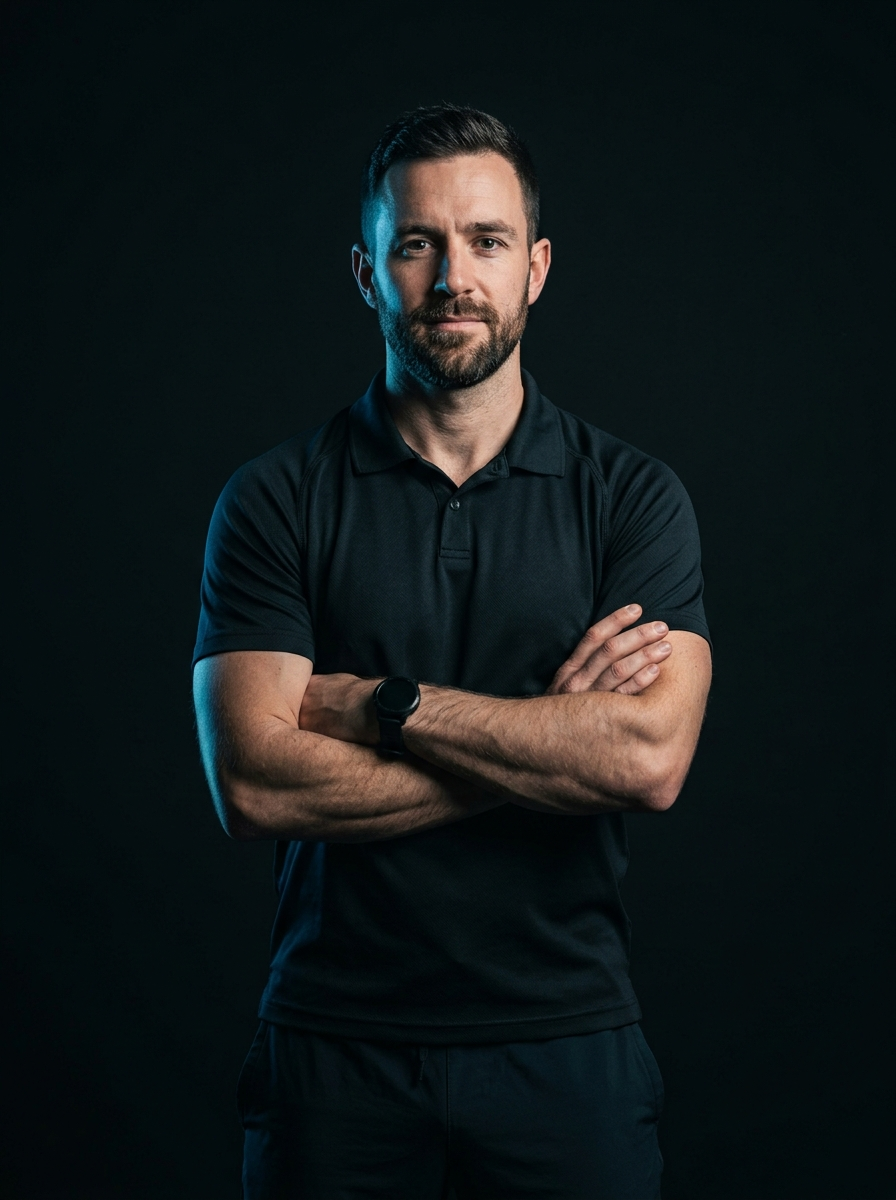
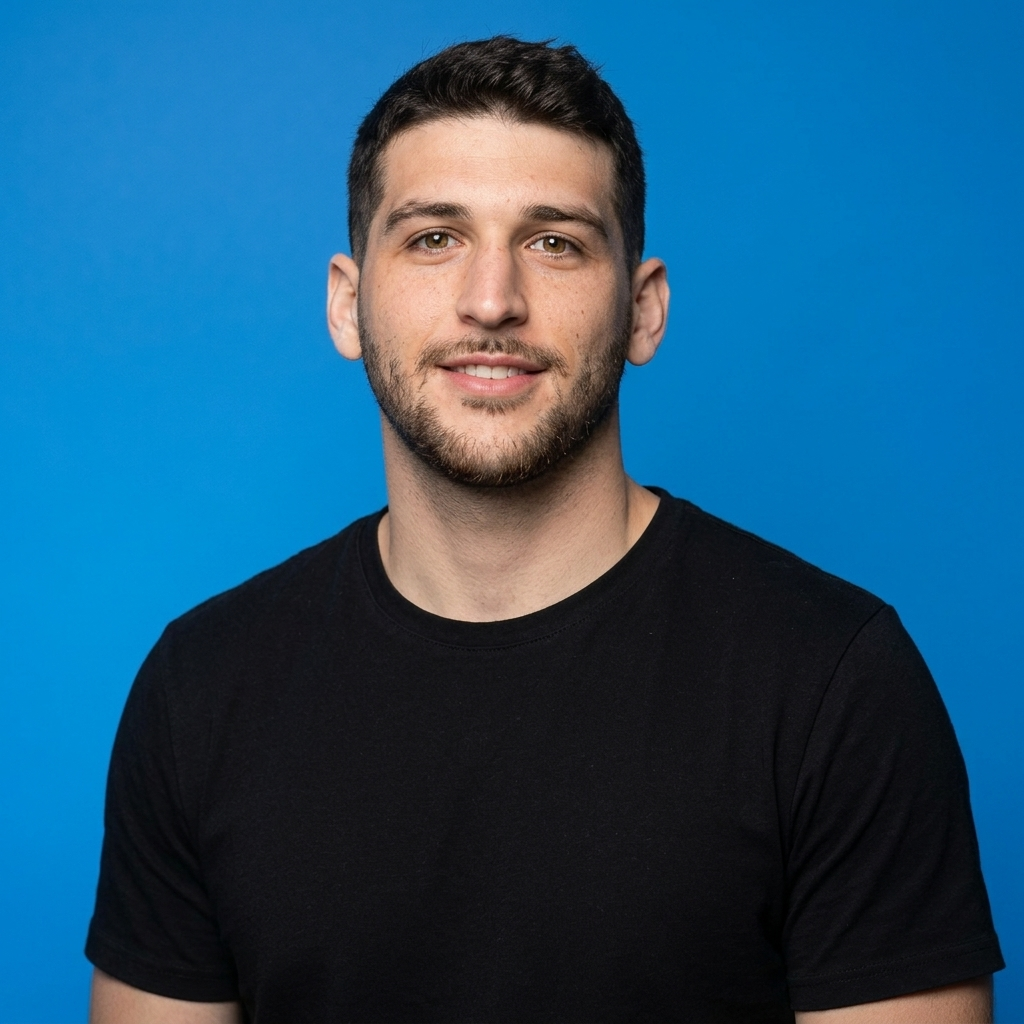
feat(about): update founder portrait with HD enhanced photo and remove bottom caption

diff --git a/components/AboutOfek.tsx b/components/AboutOfek.tsx
@@ -26,21 +26,15 @@ export default function AboutOfek() {
           
           {/* Professional Studio Portrait */}
           <div className="lg:col-span-5 relative order-first">
-            <div className="relative w-full max-w-[330px] sm:max-w-[380px] mx-auto aspect-[4/5] rounded-3xl overflow-hidden border border-white/[0.08] shadow-[0_18px_48px_-14px_rgba(0,0,0,0.65)] bg-neutral-900">
+            <div className="relative w-full max-w-[300px] sm:max-w-[360px] mx-auto aspect-square rounded-3xl overflow-hidden border border-white/[0.08] shadow-[0_18px_48px_-14px_rgba(0,0,0,0.65)] bg-neutral-900">
               <Image
-                src="/about-portrait.jpg"
+                src="/ofek-portrait-hd.jpg"
                 alt="אופק אוקונסקי, מייסד Okonski Performance"
                 fill
-                className="object-cover object-top"
-                sizes="(max-width: 640px) 330px, (max-width: 1024px) 380px, 33vw"
+                className="object-cover object-center"
+                sizes="(max-width: 640px) 300px, (max-width: 1024px) 360px, 33vw"
                 priority={false}
               />
-              <div className="absolute inset-0 bg-gradient-to-t from-charcoalDark via-transparent to-transparent opacity-80" />
-              
-              <div className="absolute bottom-4 sm:bottom-5 right-4 sm:right-5 left-4 sm:left-5 p-4 rounded-2xl bg-[#0A0B0D]/80 backdrop-blur-md border border-white/[0.08] text-right">
-                <p className="text-white font-semibold text-sm">אופק אוקונסקי</p>
-                <p className="text-[11px] sm:text-xs text-silverMuted mt-0.5">מייסד Okonski Performance • חגורה שחורה BJJ</p>
-              </div>
             </div>
           </div>
 
